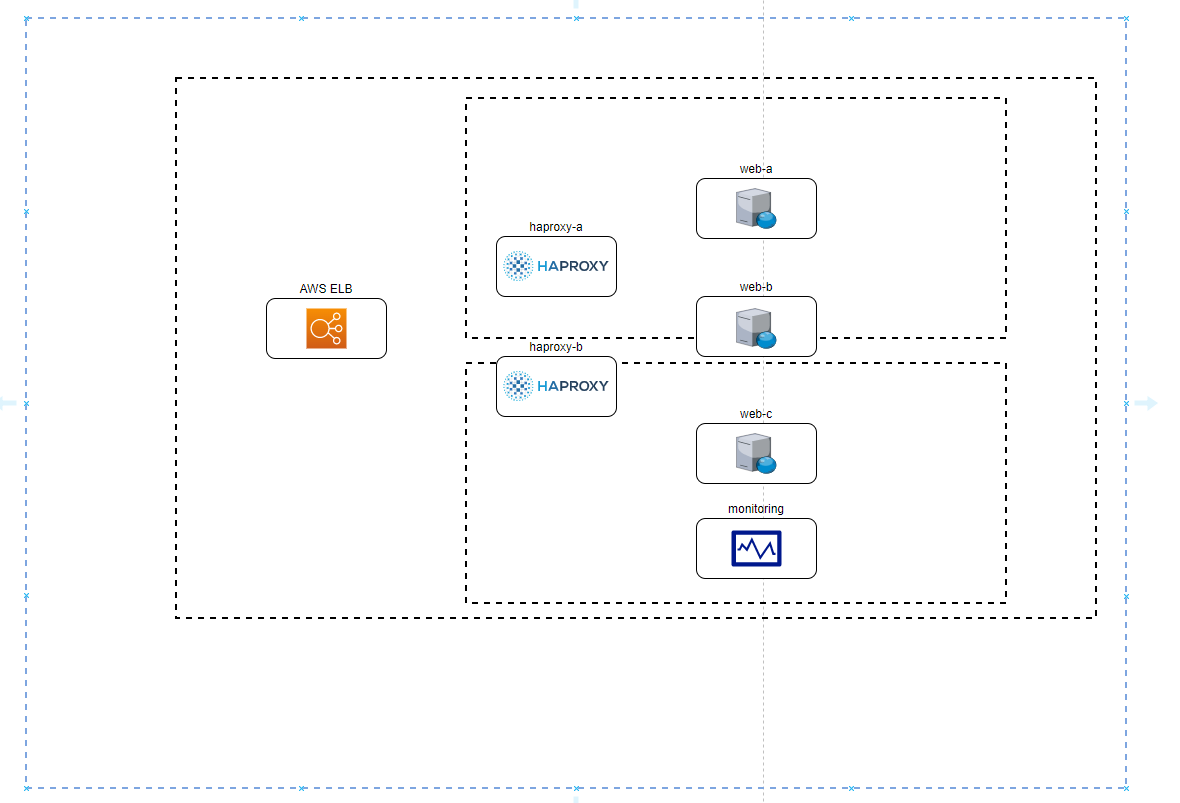
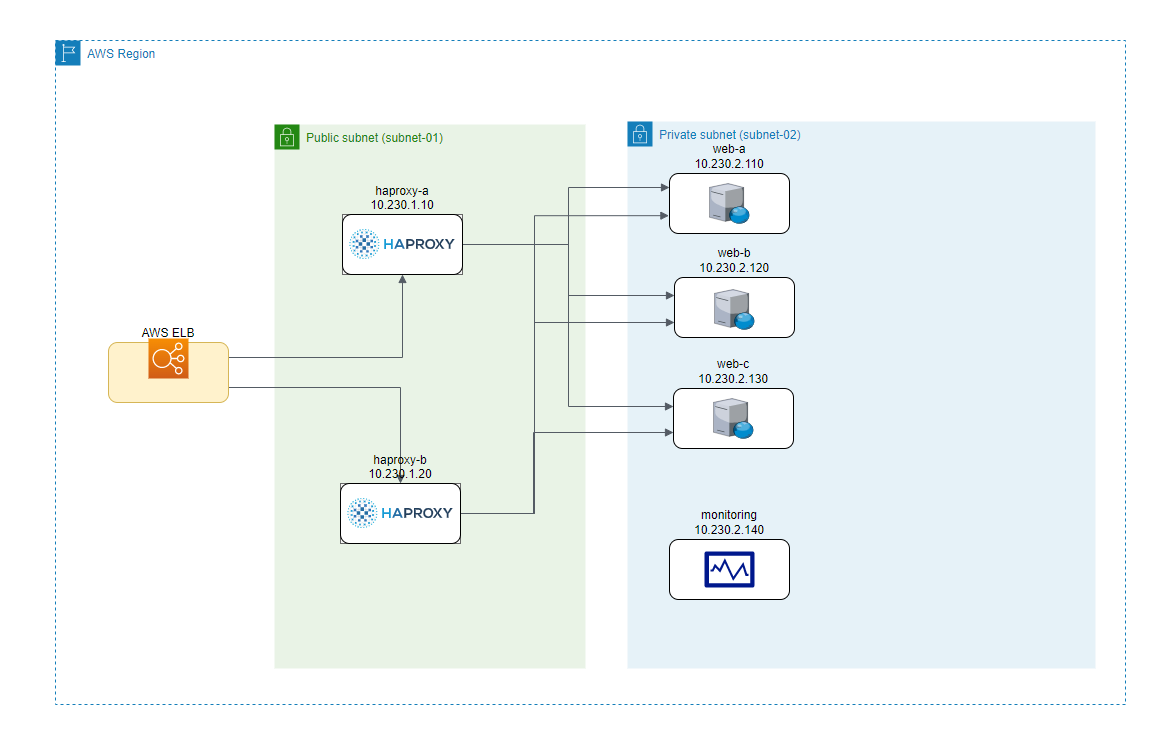
doc: diagram and readme updated

diff --git a/README.md b/README.md
@@ -4,16 +4,19 @@ Deploy Haproxy configuration in AWS cloud using Terraform
 
 ## Progress
 
-- [X] diag.io diagram
+- [X] draw.io diagram
 - [ ] main terraform deployment
-- [ ] network terraform module
-- [ ] haproxy terraform module
-- [ ] web terraform module
-- [ ] monitoring terraform module (Grafana | Loki)
+- [X] network terraform module
+- [X] haproxy terraform module
+- [X] web terraform module
+- [ ] monitoring terraform module (Grafana | Loki) - Docker Compose?
+- [ ] NLB Logging
 - [ ] Haproxy SPOF - Coraza Firewall
 - [ ] Diagram as Code
 - [ ] Deployment scripts (AWS Deploy | Github Actions | Jenkins)
 - [ ] traffic generator terraform module
+- [ ] TF security (BridgeCrew | Snyk)
+- [ ] OpenTofu - deployment GH Actions
 
 ## Network Diagram
 
